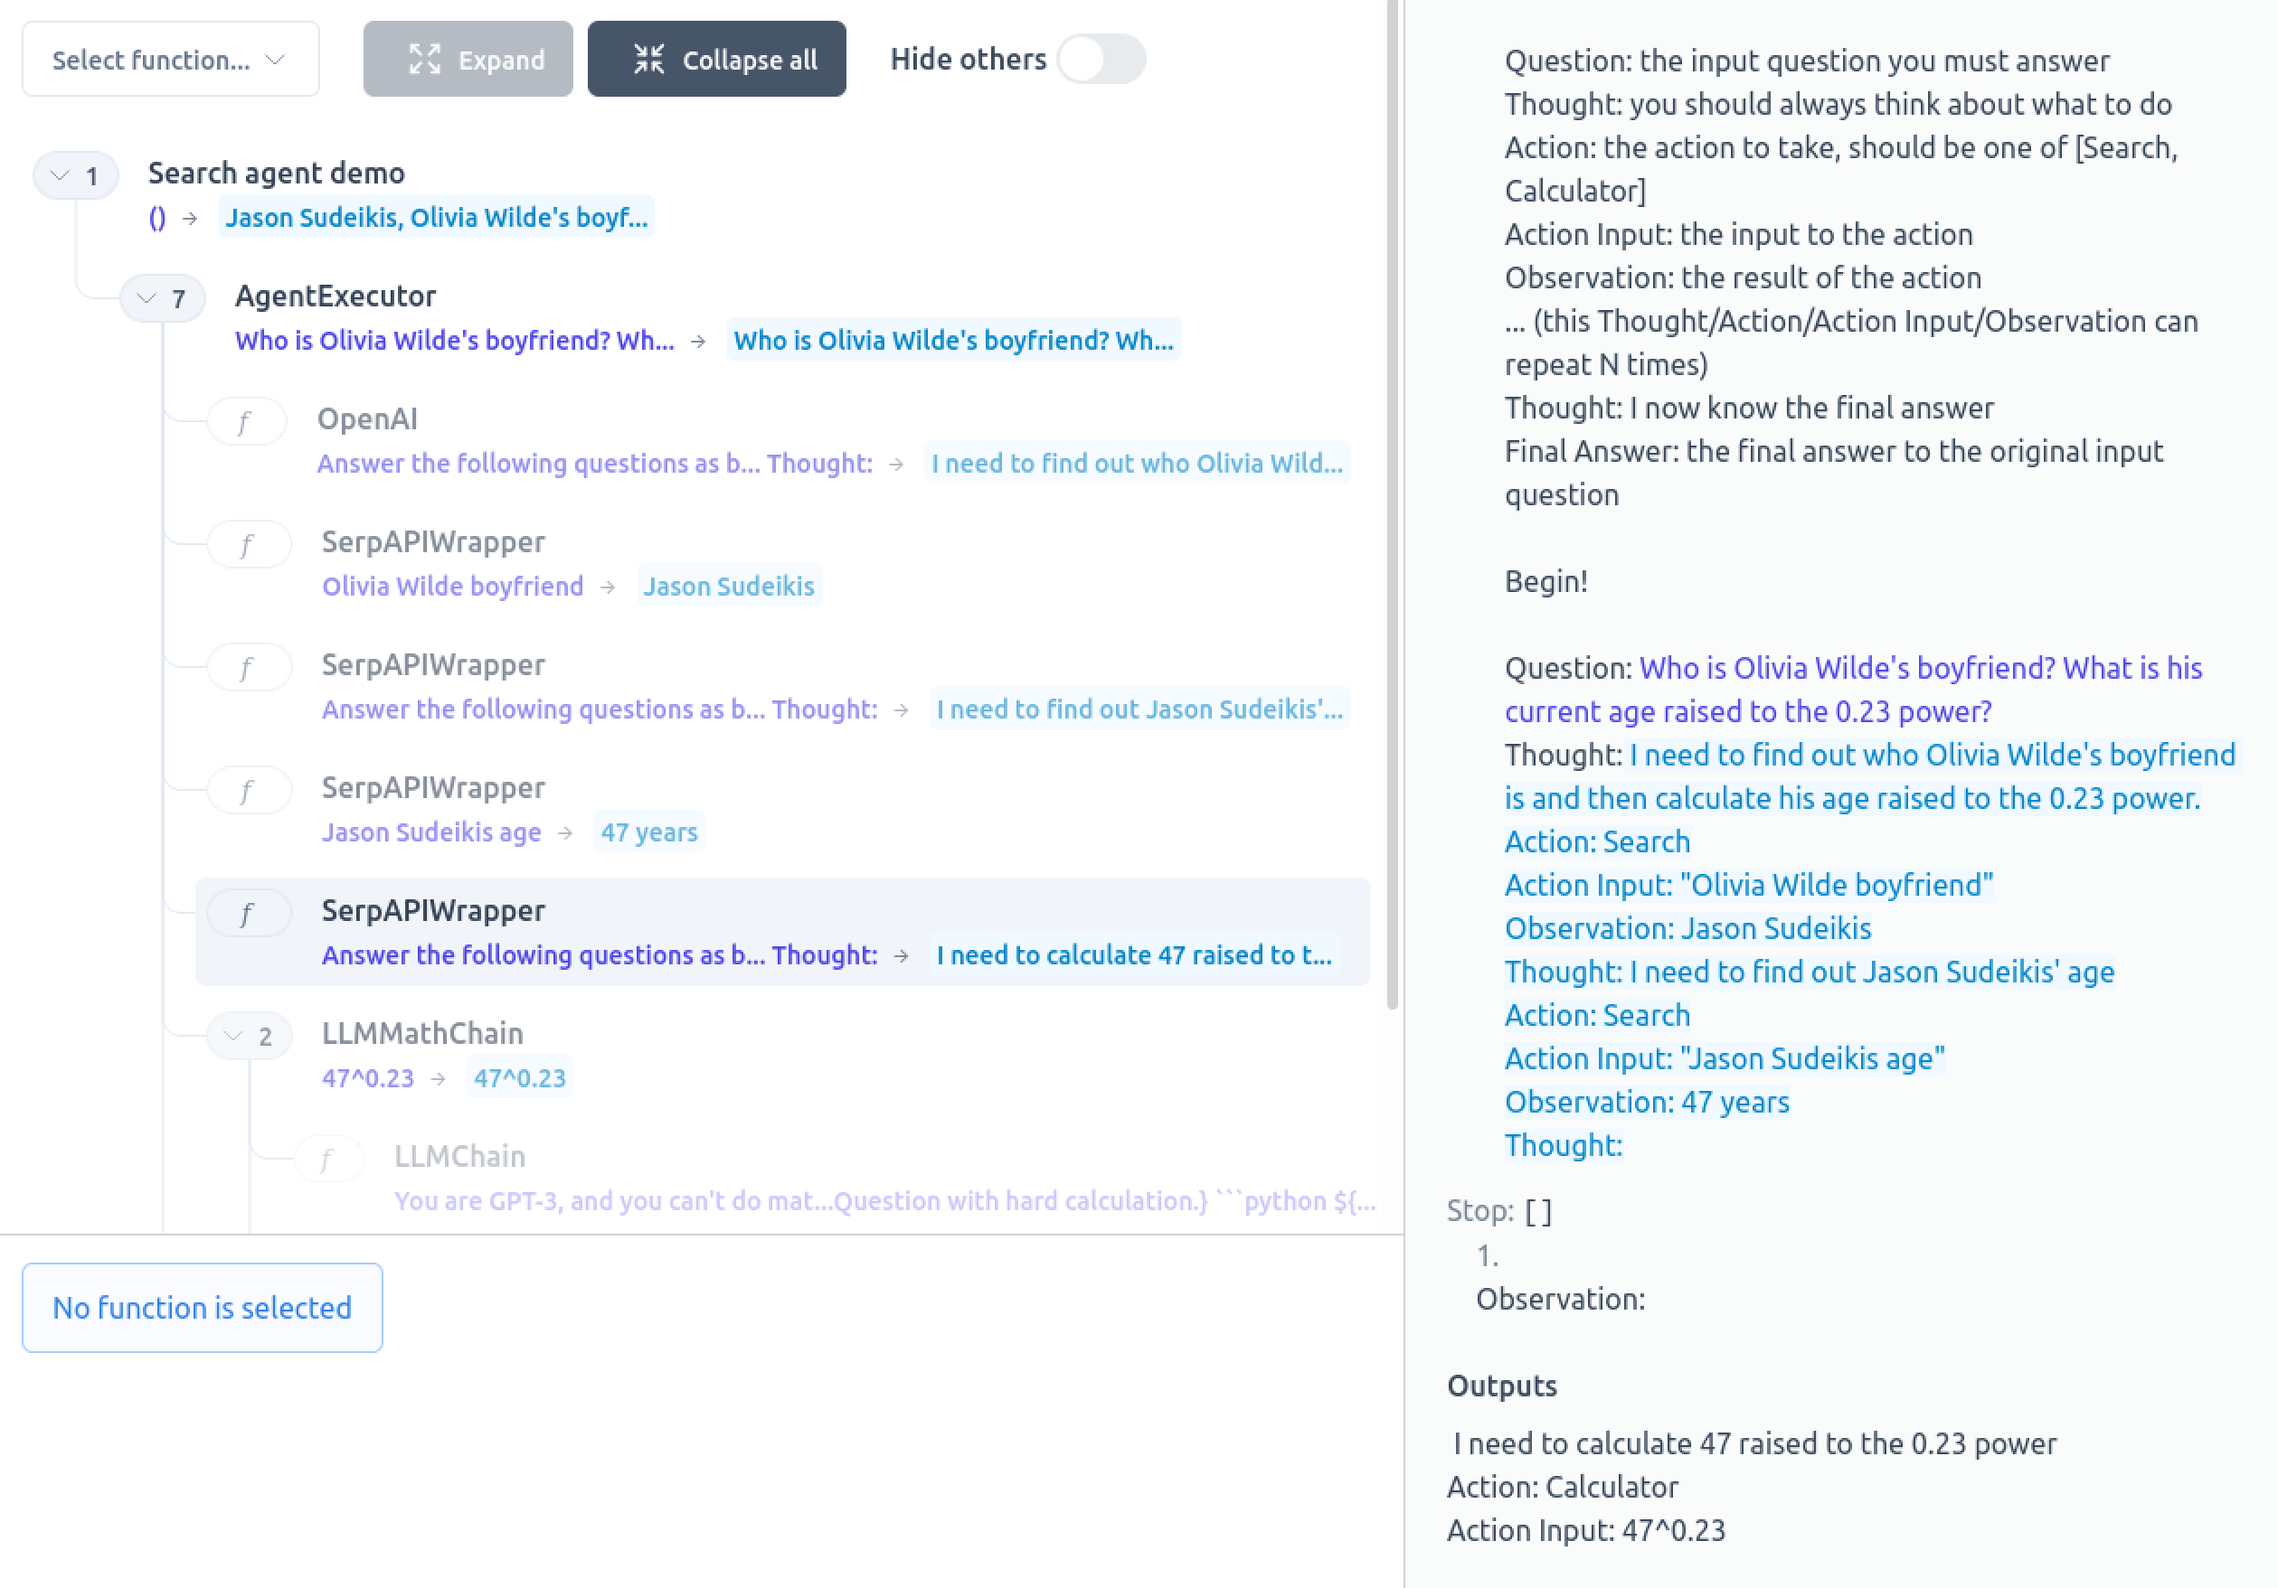
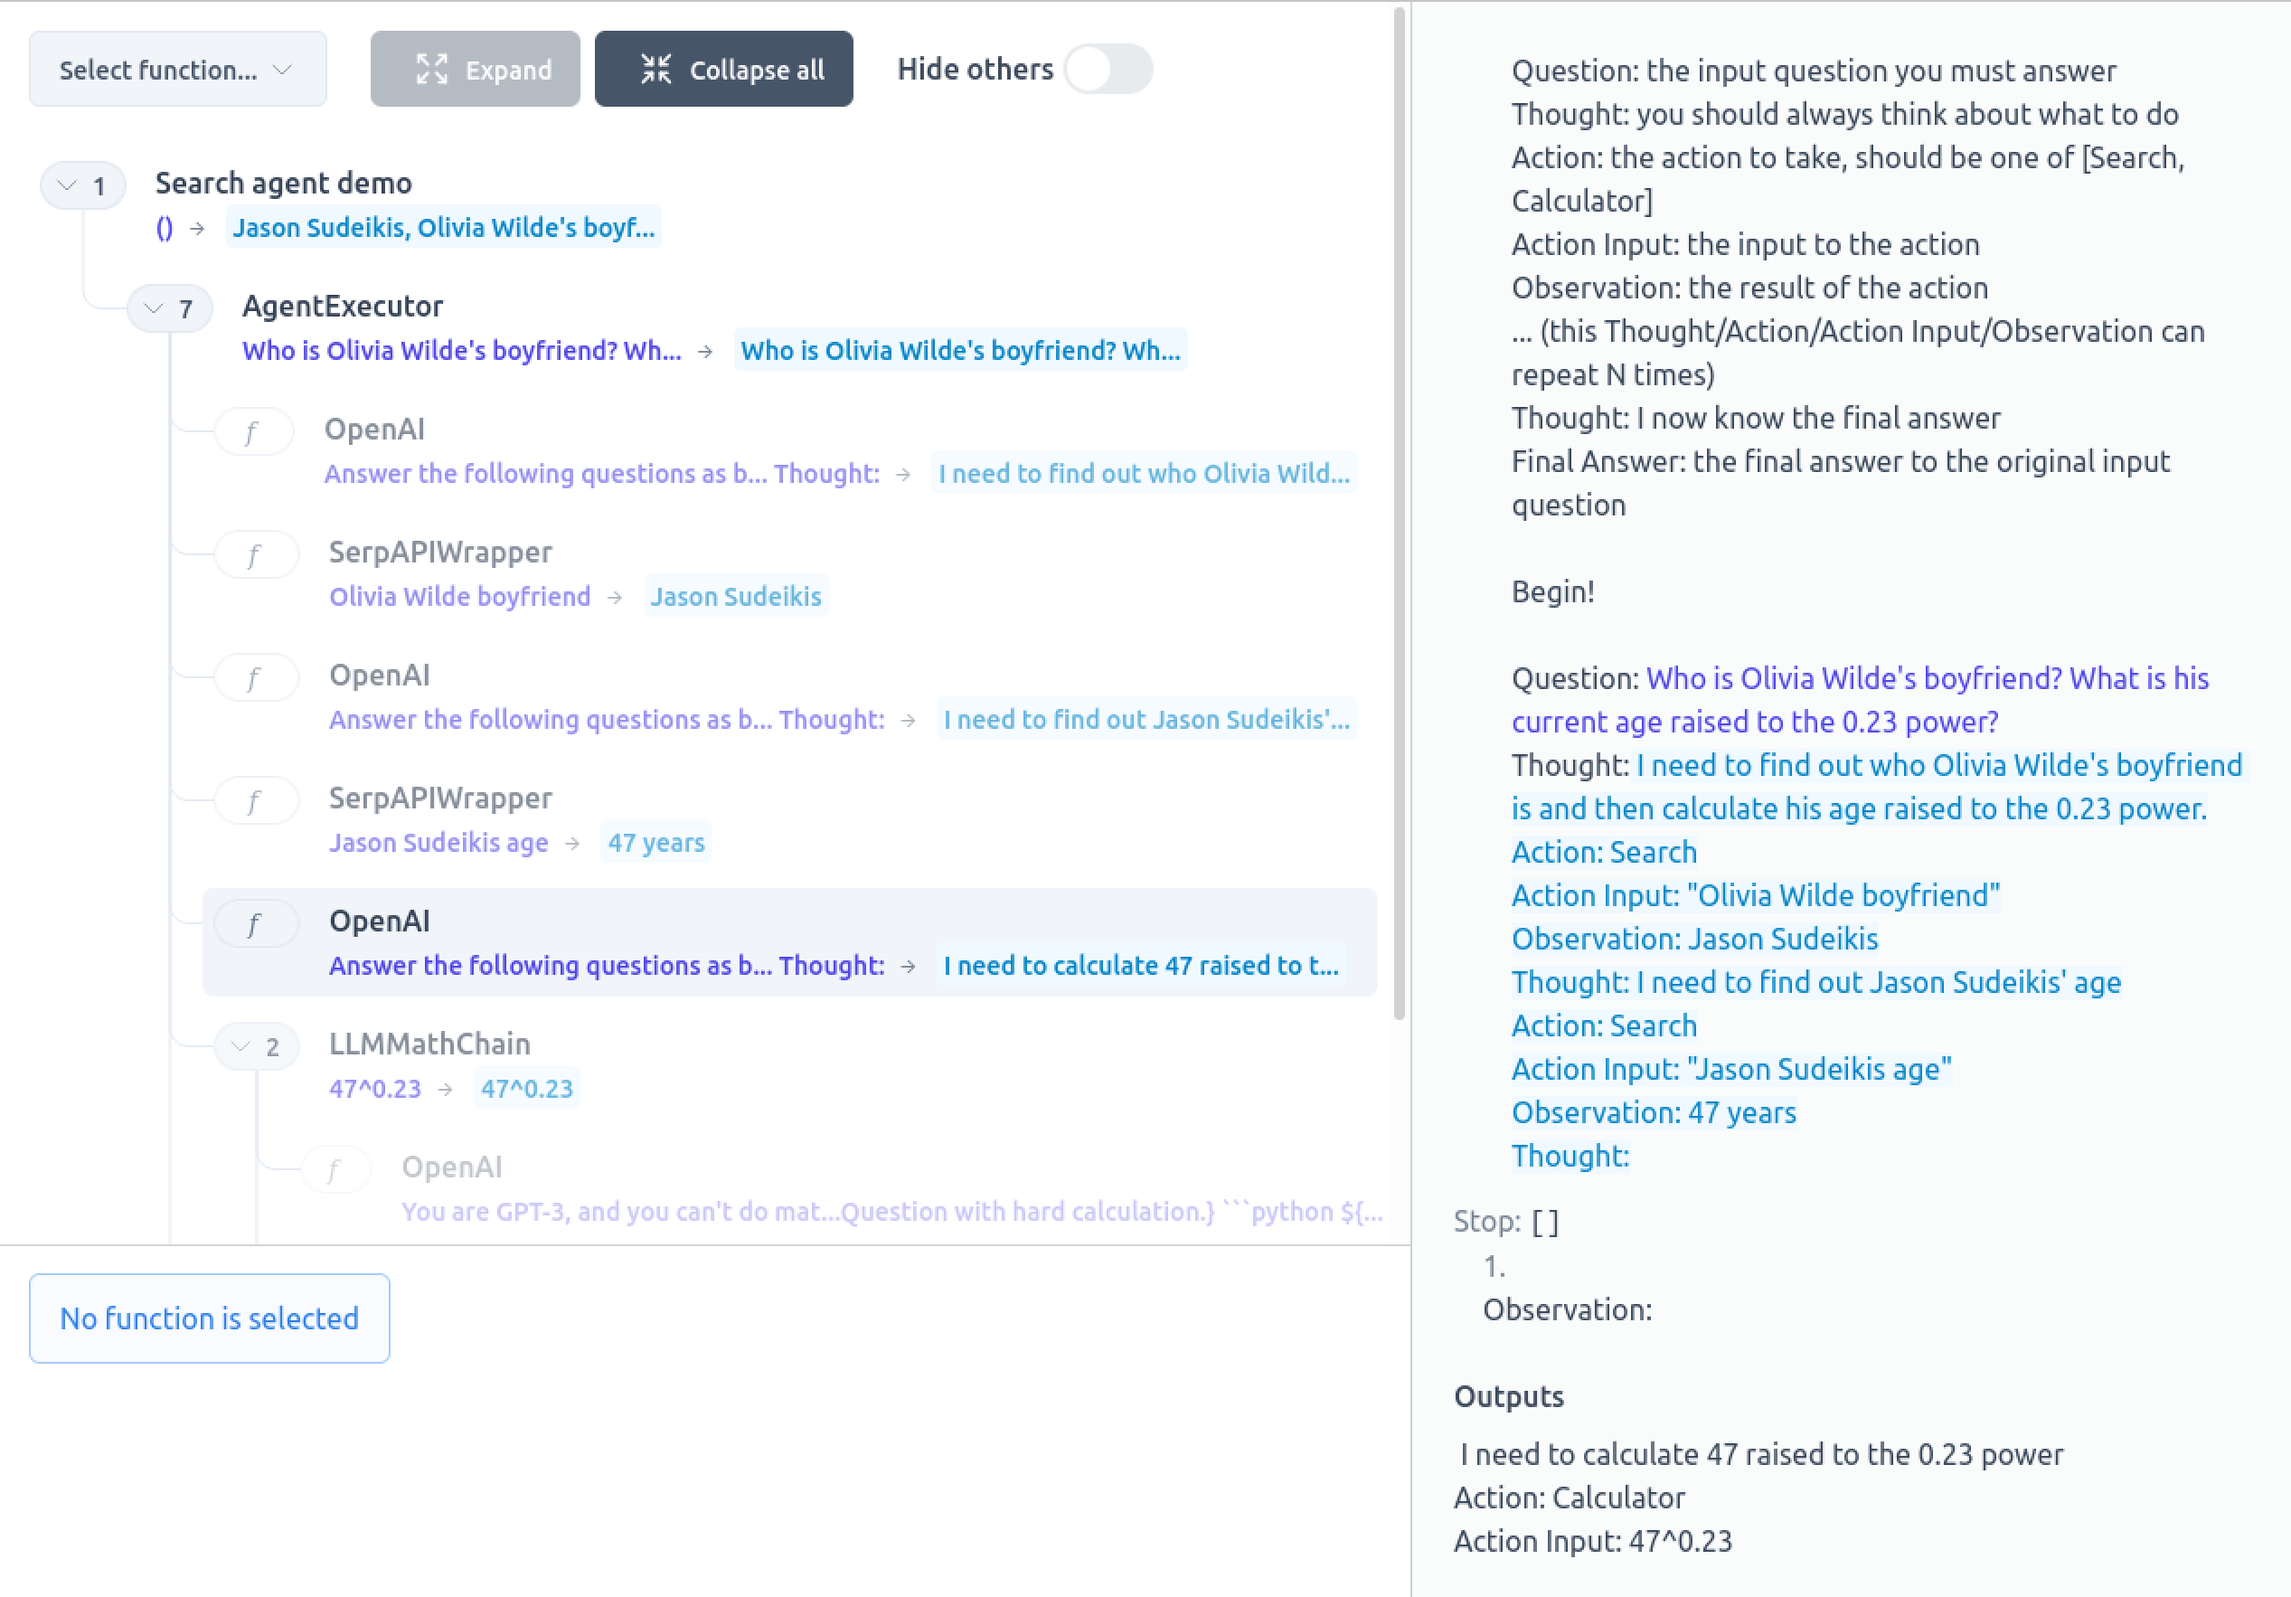
Fix wrong function name being used in trace

diff --git a/langchain_visualizer/hijacking.py b/langchain_visualizer/hijacking.py
@@ -9,9 +9,6 @@ class VisualizationWrapper(TracedABC):
         self.og_obj = og_obj
         self.og_fn = og_fn
 
-        # ICE displays class name in visualization
-        self.__class__.__name__ = self.og_obj.__class__.__name__
-
     async def run(self, *args, **kwargs):
         return self.og_fn(self.og_obj, *args, **kwargs)
 
@@ -49,6 +46,8 @@ def overridden_call(self, *args, **kwargs):
     """Preserve sync nature of OG call method"""
     ice_agent = self.get_ice_agent()
     if not hasattr(self.__class__, "_should_trace") or self.__class__._should_trace:
+        # ICE displays class name in visualization
+        ice_agent.__class__.__name__ = self.__class__.__name__
         return asyncio.get_event_loop().run_until_complete(
             ice_agent.run(*args, **kwargs)
         )
